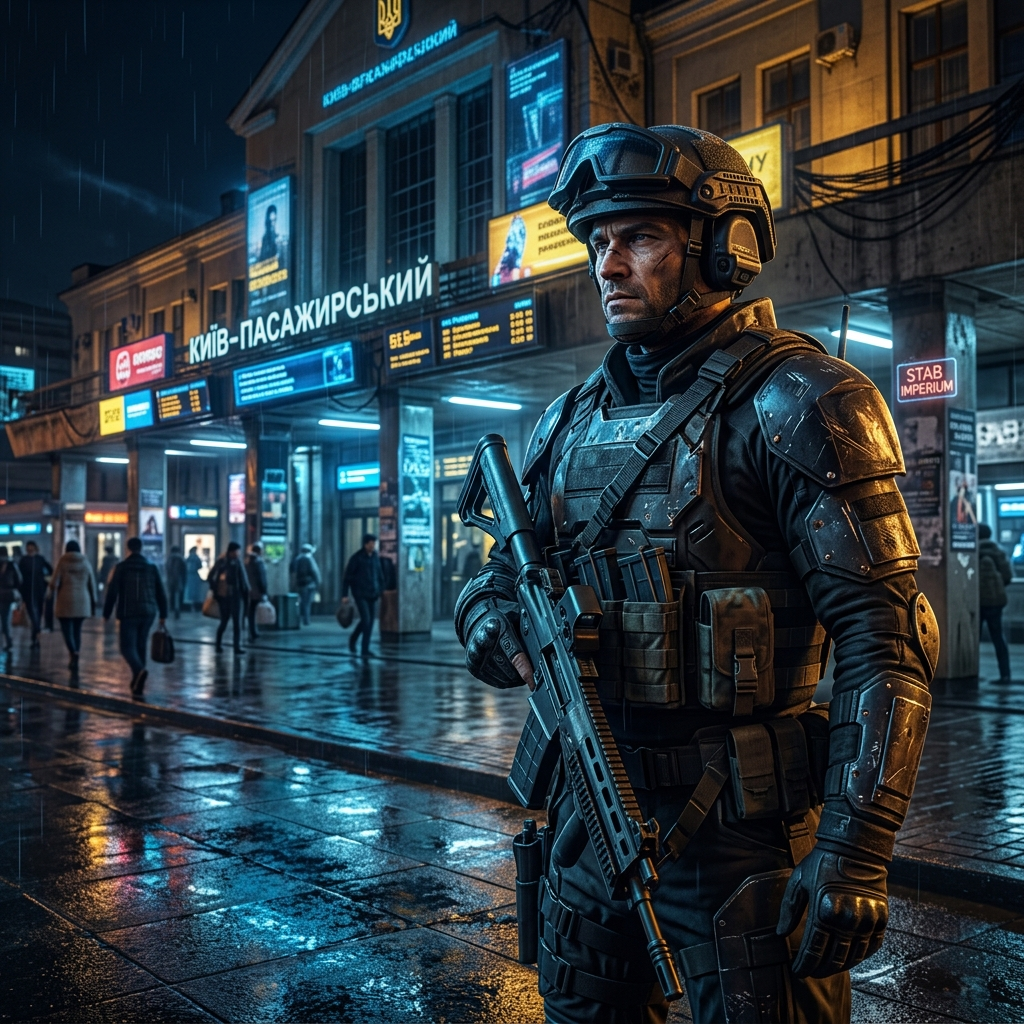
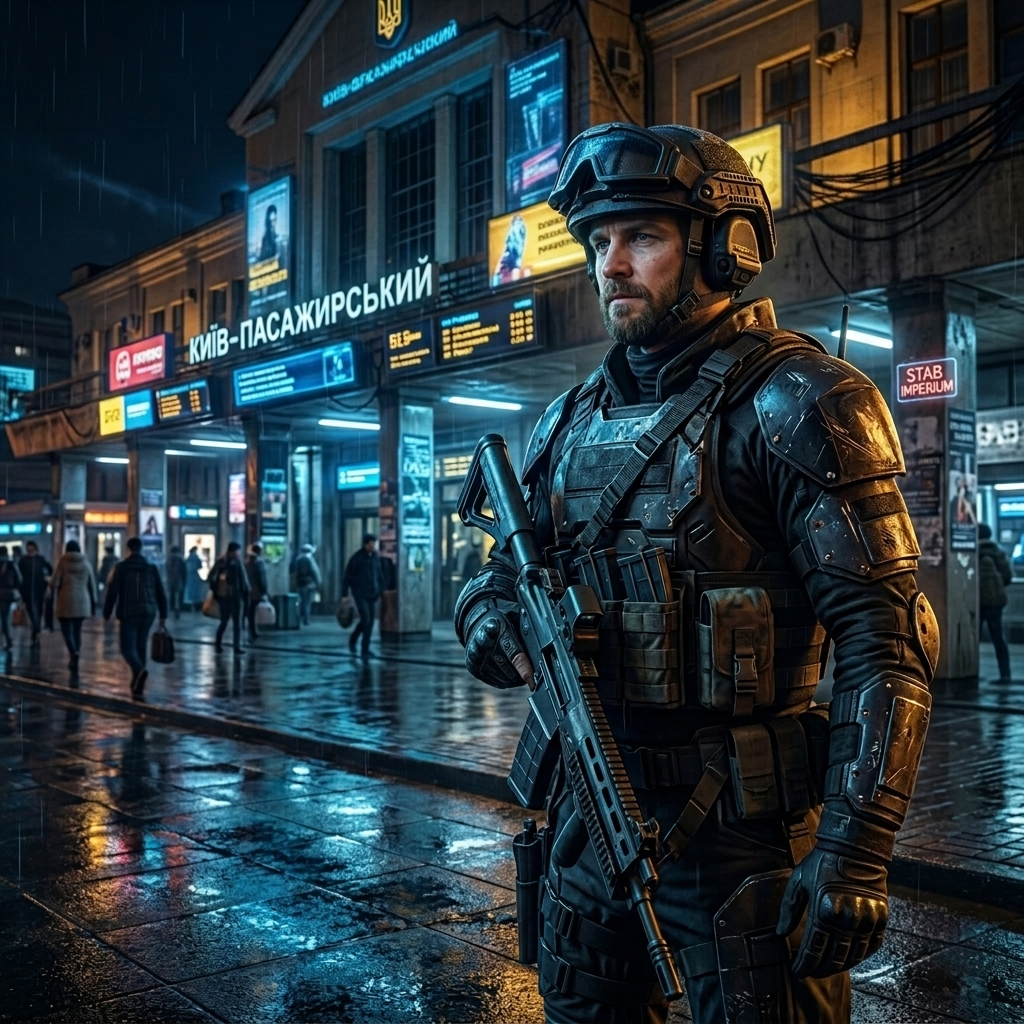
'Yura_Final_FaceSwap_Identity_Sync'

diff --git a/yura_return.html b/yura_return.html
@@ -32,7 +32,7 @@
             left: 0;
             width: 100%;
             height: 100%;
-            background: url('yura_homecoming.png?v=3') no-repeat center center;
+            background: url('yura_homecoming.png?v=4') no-repeat center center;
             background-size: cover;
             z-index: -1;
             filter: brightness(0.7);
